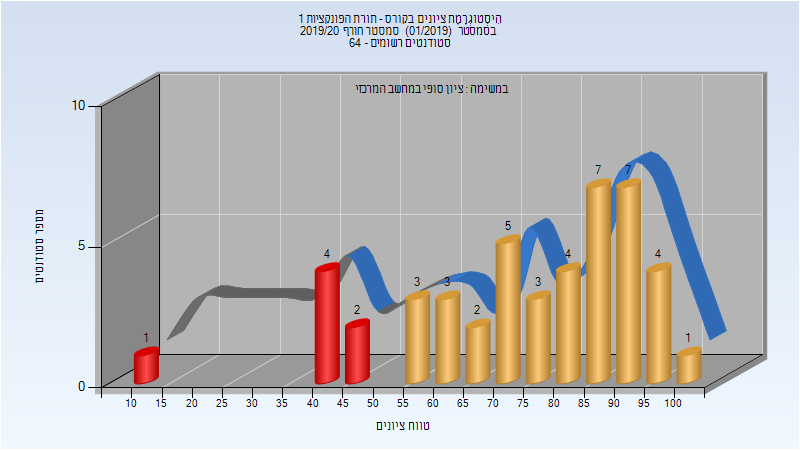
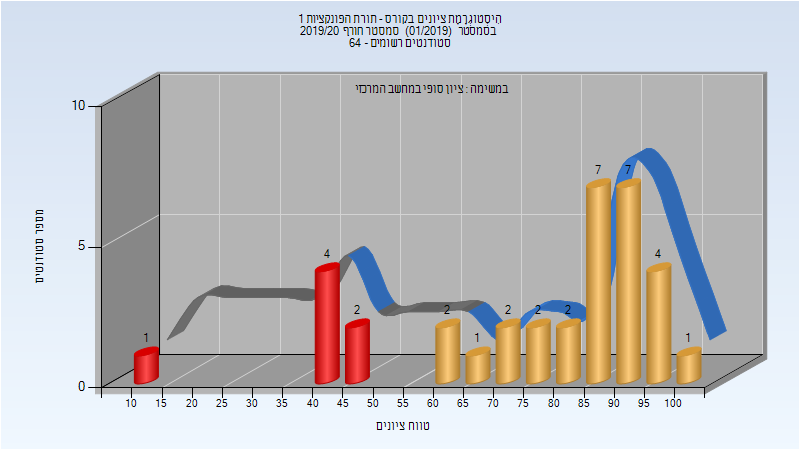
Deploy michael-maltsev/technion-histograms to github.com/michael-maltsev/technion-histograms.git:gh-pages

Changed region(s): [[0.4688, 0.4667, 0.7812, 0.8711], [0.7812, 0.3111, 0.8125, 0.3733], [0.75, 0.4044, 0.7812, 0.4356]]

diff --git a/104222/index.html b/104222/index.html
@@ -769,7 +769,7 @@
 <td>58</td>
 <td>7</td>
 <td>100</td>
-<td>60.697</td>
+<td>60.758</td>
 <td>60</td>
 </tr>
 </tbody>
@@ -795,7 +795,7 @@
 <td>67</td>
 <td>21</td>
 <td>100</td>
-<td>66.091</td>
+<td>66.152</td>
 <td>66</td>
 </tr>
 </tbody>

diff --git a/104122/index.html b/104122/index.html
@@ -307,8 +307,8 @@
 <td>86</td>
 <td>12</td>
 <td>100</td>
-<td>74.63</td>
-<td>79</td>
+<td>76.286</td>
+<td>85</td>
 </tr>
 </tbody>
 </table>

diff --git a/104222/README.md b/104222/README.md
@@ -239,7 +239,7 @@
 
 | סטודנטים | עברו/נכשלו | אחוז עוברים | ציון מינימלי | ציון מקסימלי | ממוצע | חציון |
 | ---- | ---- | ---- | ---- | ---- | ---- | ---- |
-| 33 | 19/14 | 58 | 7 | 100 | 60.697 | 60 |
+| 33 | 19/14 | 58 | 7 | 100 | 60.758 | 60 |
 
 ### סופי מועד א'
 
@@ -247,5 +247,5 @@
 
 | סטודנטים | עברו/נכשלו | אחוז עוברים | ציון מינימלי | ציון מקסימלי | ממוצע | חציון |
 | ---- | ---- | ---- | ---- | ---- | ---- | ---- |
-| 33 | 22/11 | 67 | 21 | 100 | 66.091 | 66 |
+| 33 | 22/11 | 67 | 21 | 100 | 66.152 | 66 |
 

diff --git a/104122/README.md b/104122/README.md
@@ -91,7 +91,7 @@
 
 | סטודנטים | עברו/נכשלו | אחוז עוברים | ציון מינימלי | ציון מקסימלי | ממוצע | חציון |
 | ---- | ---- | ---- | ---- | ---- | ---- | ---- |
-| 49 | 42/7 | 86 | 12 | 100 | 74.63 | 79 |
+| 49 | 42/7 | 86 | 12 | 100 | 76.286 | 85 |
 
 ## אביב 2020
 
